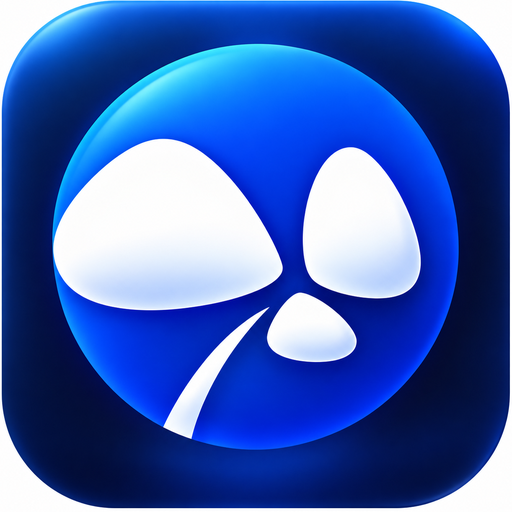
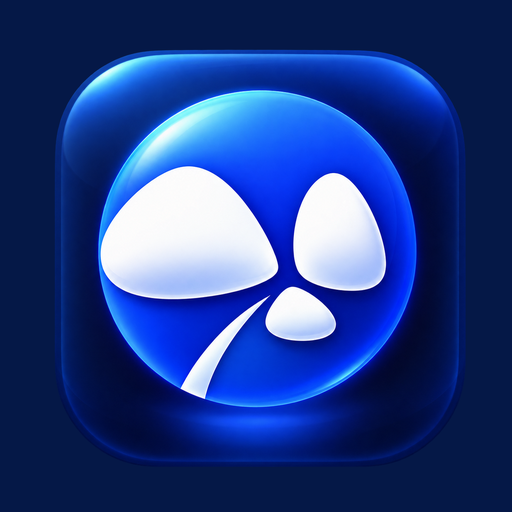
Add files via upload

diff --git a/index.html b/index.html
@@ -8,9 +8,9 @@
 <meta name="apple-mobile-web-app-capable" content="yes">
 <meta name="apple-mobile-web-app-status-bar-style" content="default">
 <meta name="apple-mobile-web-app-title" content="FUTURE HEALTH">
-<link rel="apple-touch-icon" sizes="180x180" href="apple-touch-icon.png?v=33">
-<link rel="icon" type="image/png" sizes="32x32" href="favicon-32.png?v=33">
-<link rel="manifest" href="manifest.webmanifest?v=33">
+<link rel="apple-touch-icon" sizes="180x180" href="apple-touch-icon.png?v=34">
+<link rel="icon" type="image/png" sizes="32x32" href="favicon-32.png?v=34">
+<link rel="manifest" href="manifest.webmanifest?v=34">
 <link rel="stylesheet" href="styles.css">
 
 <style id="v24-russian-admin-compact">

diff --git a/README_CN.md b/README_CN.md
@@ -14,7 +14,7 @@
 - 加入 FUTURE HEALTH Apple Home Screen 图标和 Web App manifest。
 - 旧 receipt_v1 模板/文件在管理员加载后会自动升级到 V31 源界面。
 
-## V33 更新
+## V34 更新
 - 正式接入 iPhone Safari“添加到主屏幕”图标：`apple-touch-icon.png`。
 - 增加 Web App manifest、favicon 与 iOS Web App 元信息，并加入 `v=32` 缓存版本。
 - 使用已确认的 FUTURE HEALTH 公司图标重新生成 180×180 与 512×512 图标。
@@ -22,7 +22,14 @@
 - iPhone 上测试新图标时，请先删除主屏幕旧图标，再从 Safari 重新“添加到主屏幕”。
 
 
-## V33 图标更新
+## V34 图标更新
 - iPhone“添加到主屏幕”图标更换为最终确认的单边框版本。
 - 更新 Apple Touch Icon、PWA 图标和 favicon。
 - 图标缓存版本号更新为 v=33。
+
+
+## V34 图标更新
+- 使用最终确认的新图标。
+- 去除透明/白色漏边风险，iPhone 主屏幕由 iOS 自己裁切圆角。
+- 更新 apple-touch-icon.png、app-icon.png、favicon-32.png。
+- 图标缓存版本号更新为 v=34。
